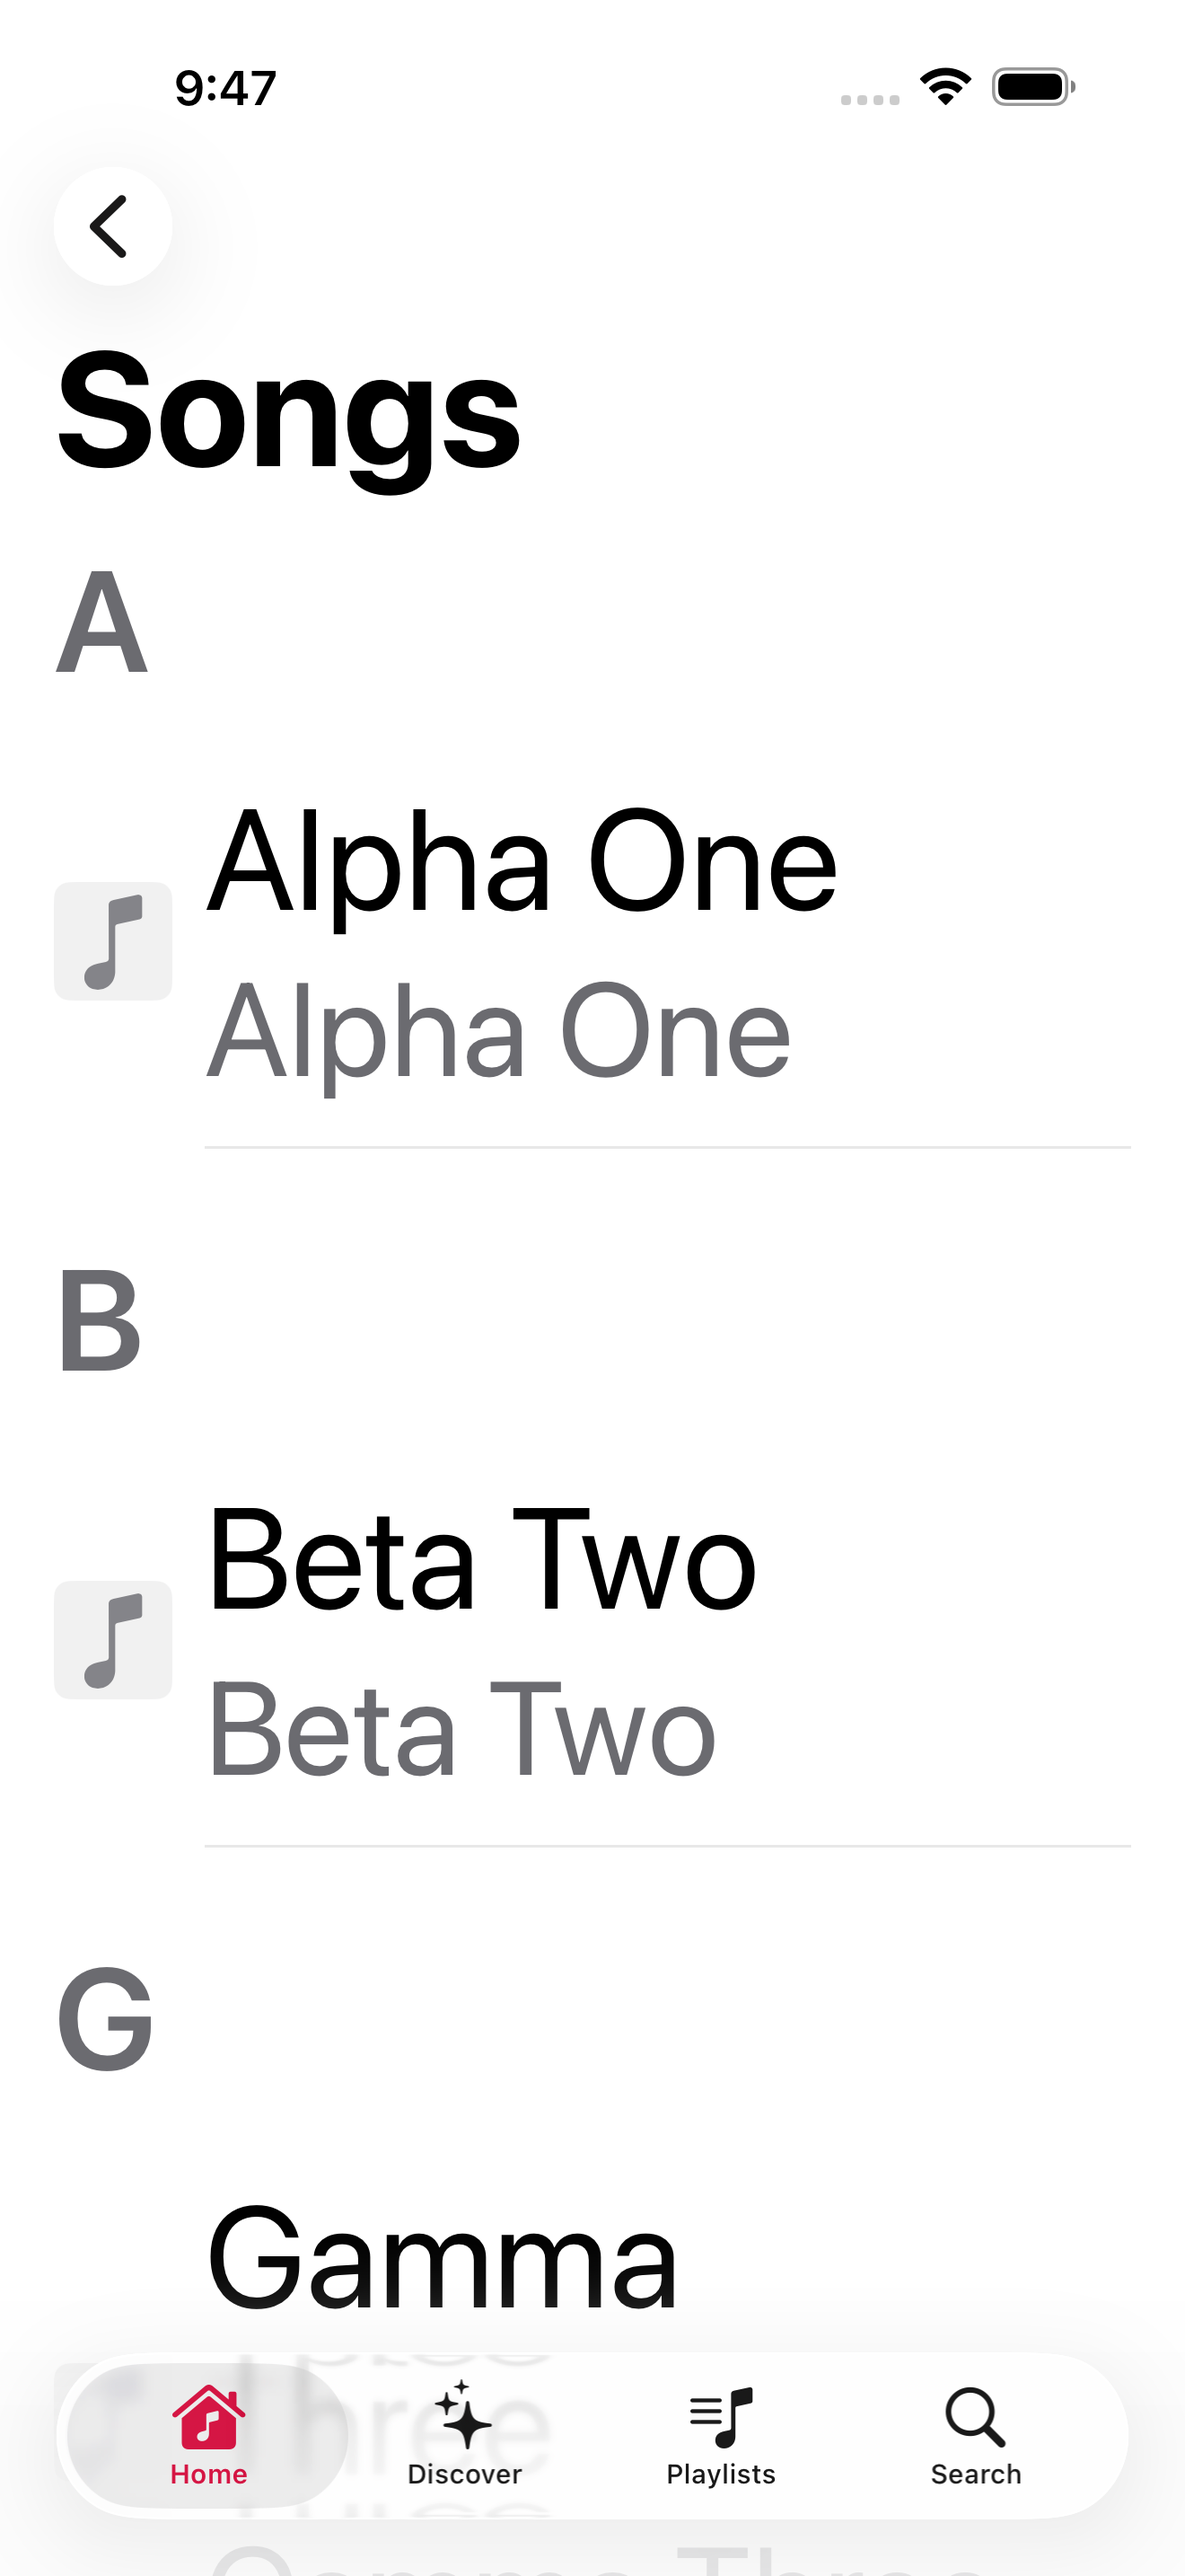
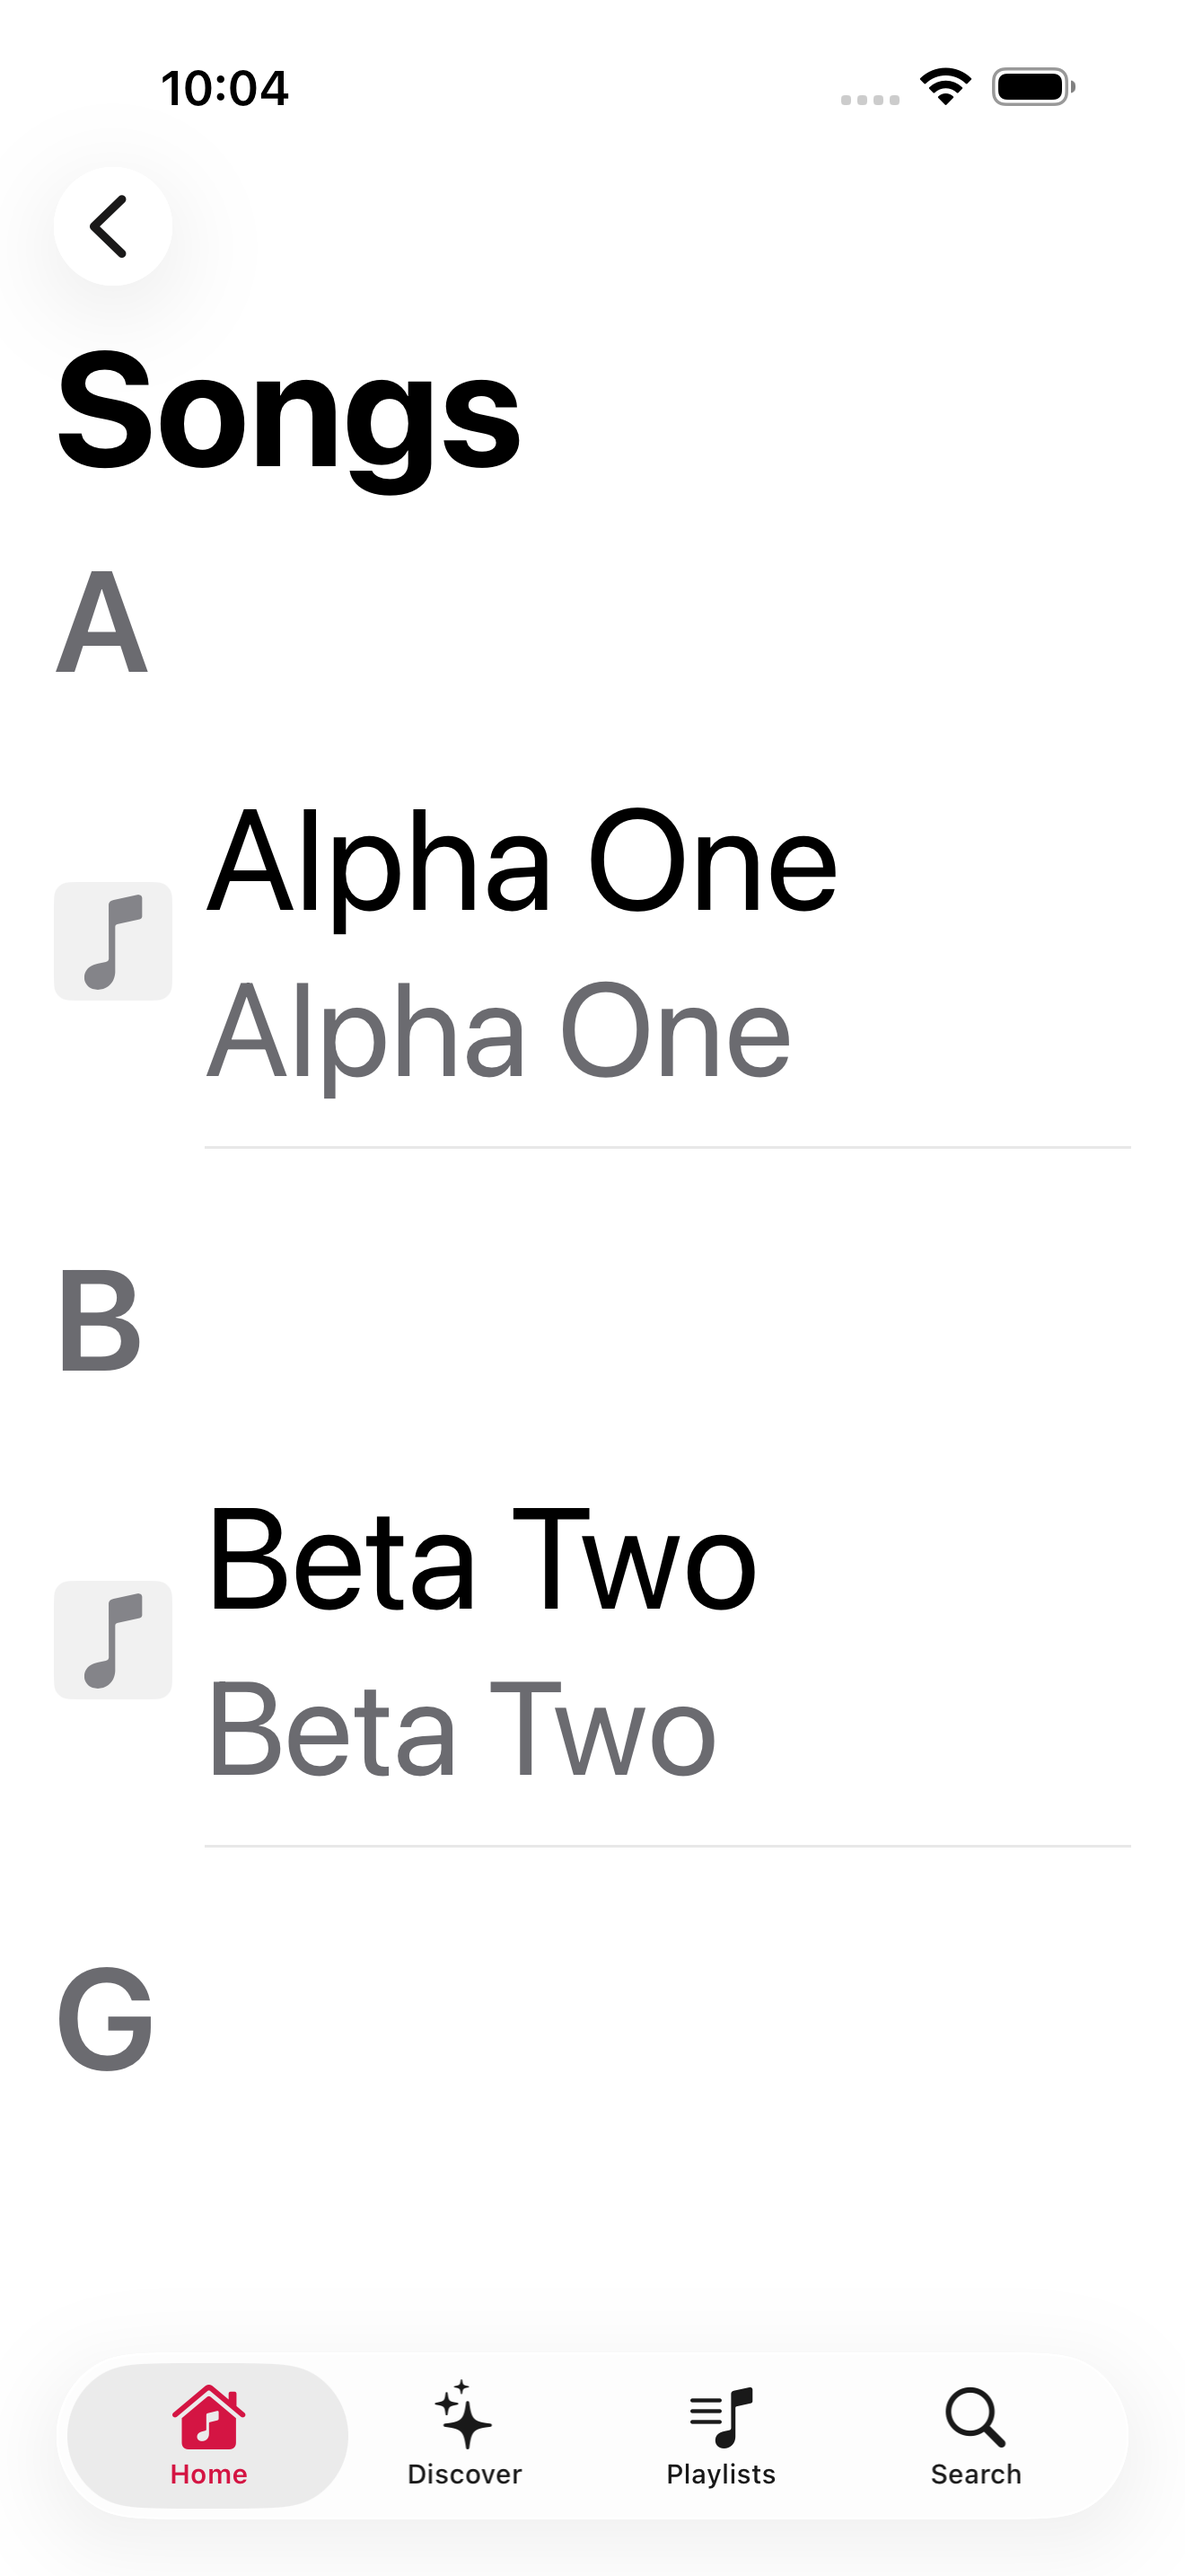
fix(ios): clear Songs rows above floating tab bar on AX5
Pad IndexedList's ScrollViewReader so the first screen of a short library
cannot ghost through the tab chrome; gate it in the Tracks UITest before
minimize-on-scroll shrinks the bar.

diff --git a/Tests/PetrichoriOSUITests/AccessibilityAuditUITests.swift b/Tests/PetrichoriOSUITests/AccessibilityAuditUITests.swift
@@ -84,19 +84,39 @@ final class AccessibilityAuditUITests: XCTestCase {
         ).firstMatch
         XCTAssertTrue(alphaRow.waitForExistence(timeout: 30), "список треков не загрузился")
 
-        // The list scrolls clear of the floating tab bar via a ScaledMetric
-        // contentMargins (80pt at the default size, growing with Dynamic Type),
-        // so no row ever renders under the bar's translucent material, which
-        // the screenshot-based contrast check would flag as ghosted text.
+        // IndexedList pads its ScrollViewReader above the floating tab bar
+        // (~80–100pt) so the last row of a short library cannot ghost through
+        // the chrome on the first screen. safeAreaInset on List is ignored
+        // here; padding the container is what shortens the viewport.
+        // Assert before any swipe: `.tabBarMinimizeBehavior(.onScrollDown)`
+        // shrinks the bar after scrolling and would weaken the check.
         //
         // Contrast stays excluded for this screen, but for a new reason: the
         // screenshot-based contrast pass over the whole app did not finish
         // within the audit's internal timeout on the CI runner (Code=-56,
         // "Audit failed to complete in time") even though it passes locally,
         // and the audit API has no element-scoped variant to shrink the pass.
-        // The original ghosting defect is fixed by the contentMargins above,
+        // The original ghosting defect is fixed by the padding above,
         // so the exclusion no longer hides a real problem - it works around
         // CI capacity.
+        let tabChrome = app.tabBars.firstMatch
+        XCTAssertTrue(tabChrome.waitForExistence(timeout: 5), "таббар не найден")
+        // Fixture labels combine as "Title, Artist" (e.g. "Gamma, Three").
+        let bottommostTrack = ["Gamma", "Beta Two", "Alpha One"]
+            .map { name in
+                app.buttons.matching(
+                    NSPredicate(format: "label CONTAINS[c] %@", name)
+                ).firstMatch
+            }
+            .filter(\.exists)
+            .max { $0.frame.maxY < $1.frame.maxY }
+        XCTAssertNotNil(bottommostTrack, "ни одной строки трека нет на экране")
+        XCTAssertLessThanOrEqual(
+            bottommostTrack!.frame.maxY,
+            tabChrome.frame.minY + 1,
+            "строка Songs пересекает floating tab bar на первом экране"
+        )
+
         try app.performAccessibilityAudit(for: .all.subtracting(.contrast))
 
         attachScreenshot(of: app, named: "AX-TrackList")

diff --git a/iOS/Library/IndexedList.swift b/iOS/Library/IndexedList.swift
@@ -55,6 +55,14 @@ struct IndexedList<Item: Identifiable, Row: View>: View {
     /// coordinate space; as the list scrolls, the topmost visible section is
     /// the one whose top has just crossed the list's top edge.
     @State private var sectionTops: [String: CGFloat] = [:]
+    /// Shrinks the list's layout bottom so rows cannot draw under the floating
+    /// tab bar. Trailing spacers inside the List only help after you scroll to
+    /// the end; at AX5 three fixtures already fill the first screen, so the
+    /// container itself must sit above the chrome. The bar's AX frame is ~80pt
+    /// even at accessibility sizes; leave a little air above it.
+    private var tabBarScrollClearance: CGFloat {
+        dynamicTypeSize.isAccessibilitySize ? 100 : 80
+    }
     /// The bar is a fixed 24pt-wide column pinned to the trailing edge, with
     /// no room to its right to grow into. A real text style is required —
     /// the audit flags a capped/raw size as "Dynamic Type font sizes are
@@ -130,6 +138,10 @@ struct IndexedList<Item: Identifiable, Row: View>: View {
                 }
             }
         }
+        // Pad the ScrollViewReader, not a List footer: a footer only clears
+        // the bar after scrolling to the end, while AX5 short libraries keep
+        // the last row on the first screen under the floating chrome.
+        .padding(.bottom, tabBarScrollClearance)
     }
 
     /// VoiceOver-only index control for accessibility Dynamic Type sizes.

diff --git a/iOS/Library/TrackListView.swift b/iOS/Library/TrackListView.swift
@@ -12,9 +12,6 @@ struct TrackListView: View {
     @EnvironmentObject private var libraryManager: LibraryManager
     @EnvironmentObject private var playbackManager: PlaybackManager
     @EnvironmentObject private var playlistManager: PlaylistManager
-    /// Clears the floating tab bar's zone. ~80pt at the default size; scales
-    /// with Dynamic Type so AX5 rows still stop above the bar.
-    @ScaledMetric(relativeTo: .body) private var tabBarScrollClearance: CGFloat = 80
 
     let filterItem: LibraryFilterItem?
 
@@ -51,9 +48,8 @@ struct TrackListView: View {
                 )
             }
         )
-        // The floating tab bar overlays the list's last rows (its translucent
-        // material ghosts the text behind it and fails the contrast audit).
-        .contentMargins(.bottom, tabBarScrollClearance, for: .scrollContent)
+        // Tab-bar clearance for the indexed Songs list lives on IndexedList
+        // (padding the ScrollViewReader; parent margins never reach that List).
         .navigationTitle(navigationTitle)
         .navigationBarTitleDisplayMode(.large)
     }

diff --git a/.scratch/official-port-gaps/issues/07-accessibility.md b/.scratch/official-port-gaps/issues/07-accessibility.md
@@ -100,11 +100,16 @@ Blocked by: 01
   - Shuffle/repeat hit-target 44×44.
   - IndexedList на AX-размерах: буквенный столбец скрыт (как Contacts/Music), но
     VoiceOver Index (label/value/adjustable) остаётся — jump-by-letter на AX5 жив.
-  - TrackListView `contentMargins` — `@ScaledMetric` от 80pt, иначе на AX5
-    последняя строка снова заезжала под таббар.
+  - Клиренс floating tab bar: `padding(.bottom)` на `ScrollViewReader` в
+    IndexedList (80pt / 100pt на AX). `safeAreaInset` и footer-spacer внутри
+    List не поднимают первую экранную порцию короткой библиотеки. UITest
+    `testTrackListPassesAccessibilityAudit` гейтит
+    `bottommostTrack.maxY ≤ tabBar.minY` до любого swipe (иначе
+    `tabBarMinimizeBehavior` сжимает бар и проверка слабеет).
   - AX5-скриншоты (симулятор, `accessibility-extra-extra-extra-large`):
     `.scratch/official-port-gaps/ax5-screenshots/{ax5-home,ax5-tracks,ax5-settings}.png`.
-    Три аудита зелёные при этом размере. Обрезки нет; на Home «Top 25 Most Played»
-    переносится на две строки — ожидаемо при AX5.
-  - VoiceOver на устройстве (`petrichor-device`) — ещё вручную: строка трека одной
-    фразой, транспорт и скрубер.
+    Аудиты зелёные при этом размере; на Home «Top 25 Most Played» на две строки —
+    ожидаемо при AX5.
+  - VoiceOver на устройстве (`petrichor-device`): DDI/Xcode 26.6 ↔ iOS 27 не даёт
+    UI-тест на телефон; проход строка/транспорт/скрубер остаётся ручным на
+    деплое из скилла — не закрыт автоматически.
